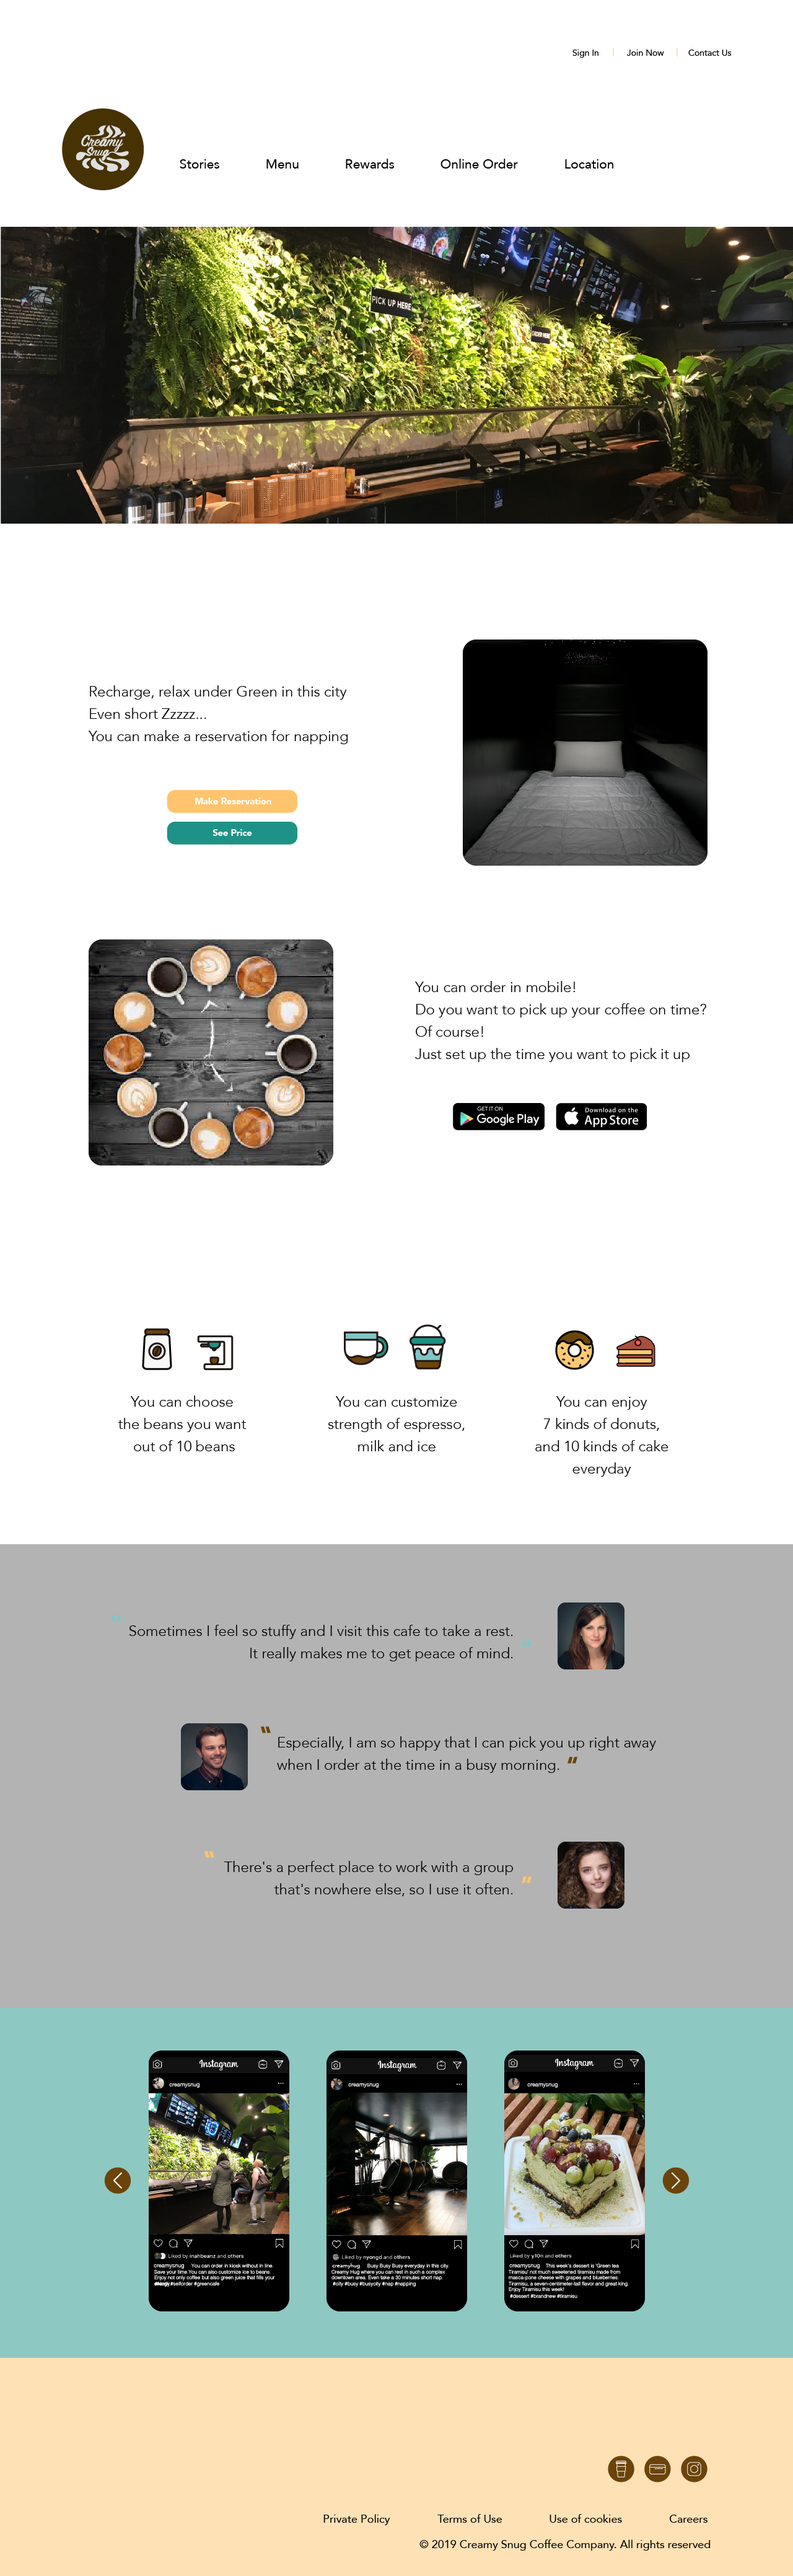
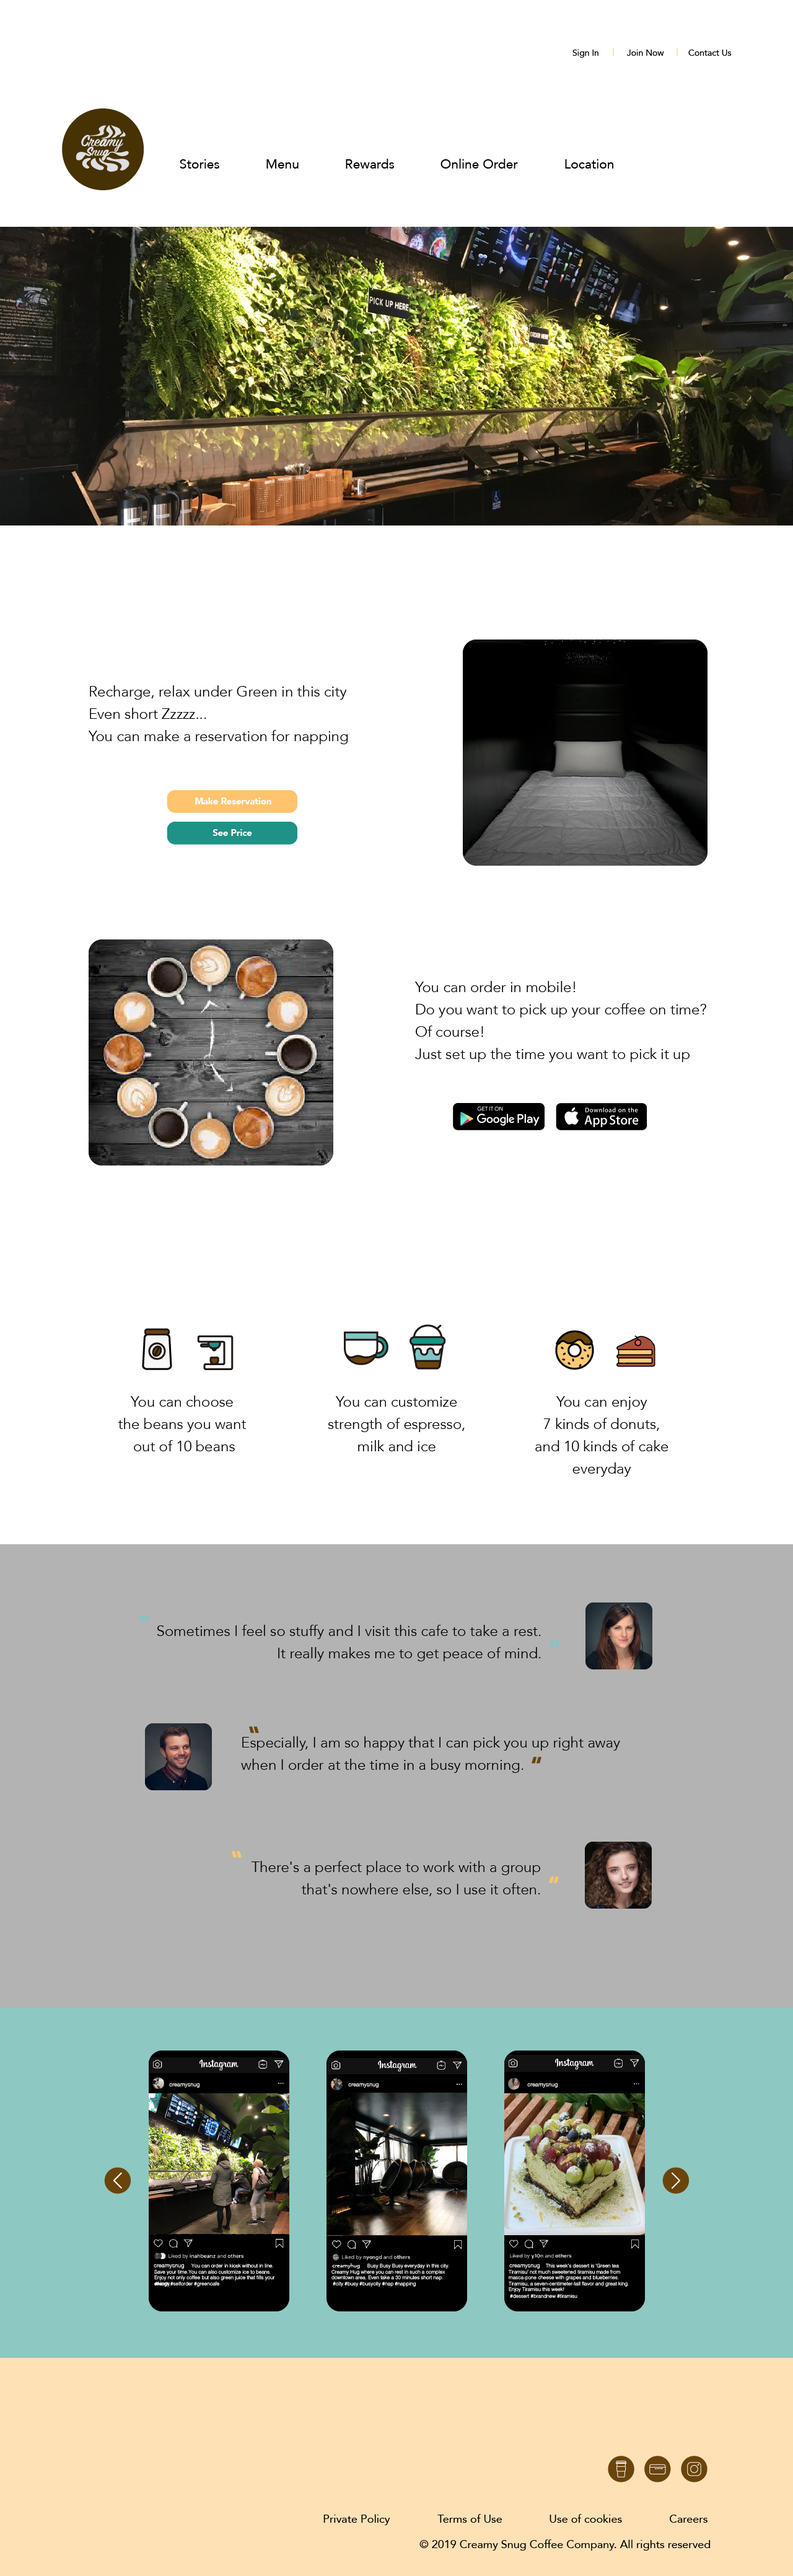
0816_1

diff --git a/public/index.css b/public/index.css
@@ -22,7 +22,7 @@ header .cover{width: 75%; height: 100%; position: absolute; top: 15%; right: 0; 
 .nav-open .info ul li{padding-bottom: 20px;}
 .nav-open .nav-images{display: flex; justify-content: space-around; width: 100%;}
 
-.container {width: 80%; margin: auto; padding-top: 5em;}
+.container {width: 80%; margin: auto; padding-top: 5em; padding-bottom: 10em;}
 
 @media all and (max-width: 1024px) and (min-width: 768px) {
     header{height: 50vh;}

diff --git a/public/portfolio.css b/public/portfolio.css
@@ -52,6 +52,8 @@ section span{font-size: 0.9em;}
 .experience{position: relative; width: 100%; left: -3%;}
 
 
+.container{padding-bottom: 10em;}
+
 @keyframes img{
     0%{
         filter: brightness(65%);
